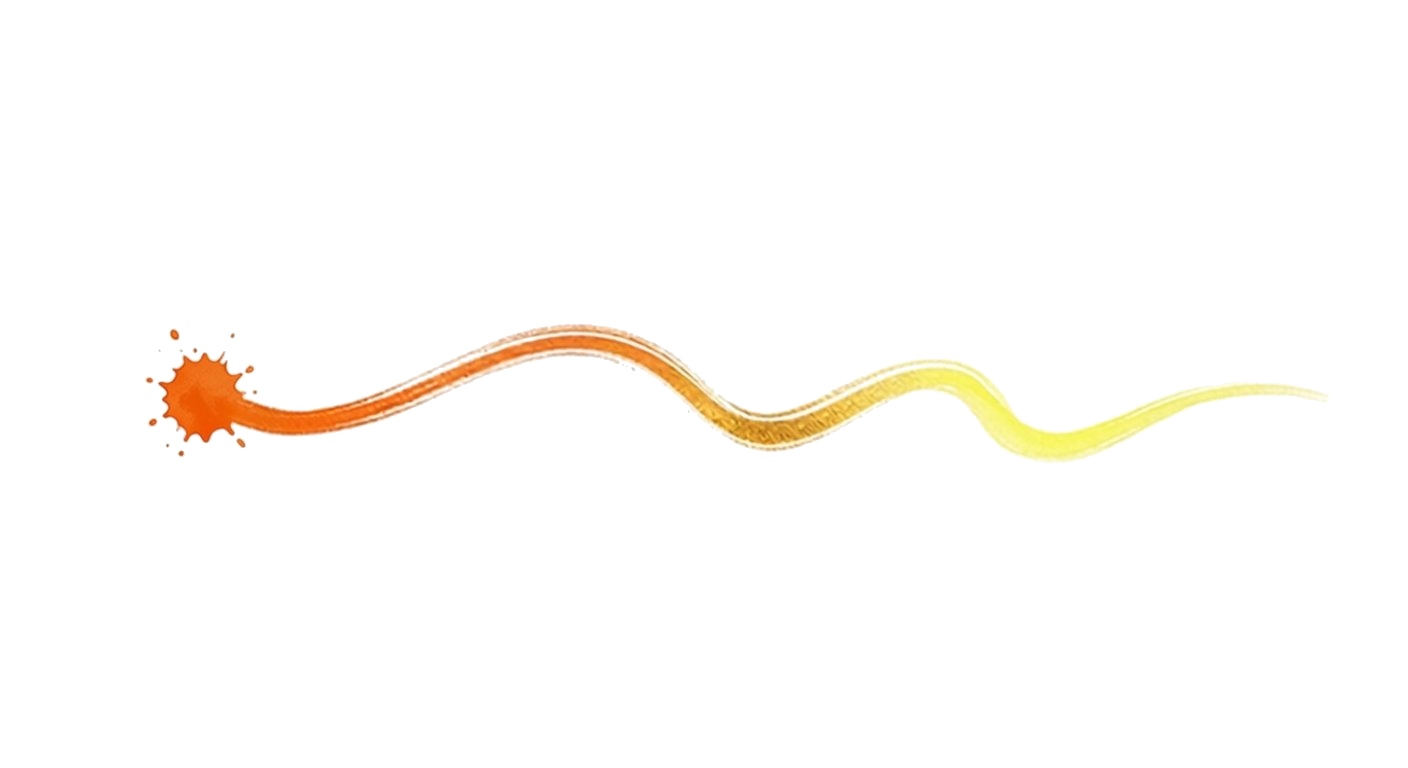
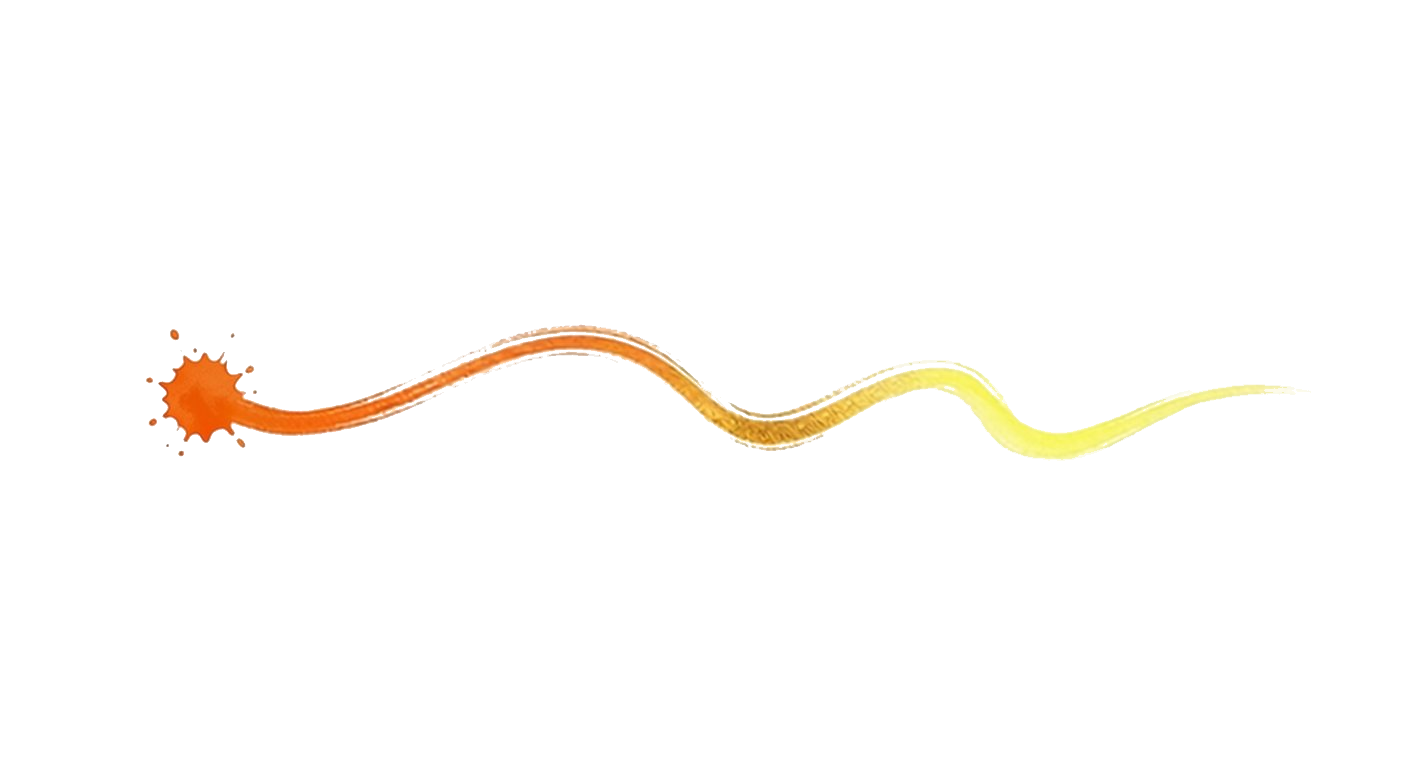
Add files via upload

diff --git a/index.html b/index.html
@@ -140,7 +140,7 @@ footer p { font-size: 12px; color: #475569; line-height: 1.6; }
 <section class="hero" id="inicio">
   <div class="hero-bg"></div>
   <div class="hero-content">
-    <h1>PREVENSUI<span>C_</span><span class="er">ER</span></h1>
+    <h1 style="color:white;">PREVENSUI<span style="color:white;">C_</span><span class="er" style="color:white;">ER</span></h1>
     <div class="logo-line"><img src="img_linea.png" alt=""></div>
     <div class="subtitle">Tú puedes ayudar a prevenir el suicidio</div>
     <p class="desc">Plataforma de conocimiento, herramientas y recursos para profesionales de emergencias prehospitalarias y primeros intervinientes.</p>
@@ -213,7 +213,7 @@ footer p { font-size: 12px; color: #475569; line-height: 1.6; }
 
 <!-- ═══ RECURSOS EXTERNOS ═══ -->
 <section id="recursos-ext" style="position:relative;overflow:hidden;background:#0e1a2e;padding:80px 24px;">
-  <div style="position:absolute;inset:0;background:url('img_mapa.png') center/contain no-repeat;opacity:0.12;"></div>
+  <div style="position:absolute;inset:0;background:url('img_mapa.png') center/contain no-repeat;opacity:0.25;"></div>
   <div class="container" style="position:relative;z-index:2;">
     <div class="section-tag">Otros recursos y referencias de interés</div>
     <div class="section-title">Organizaciones de Referencia</div>